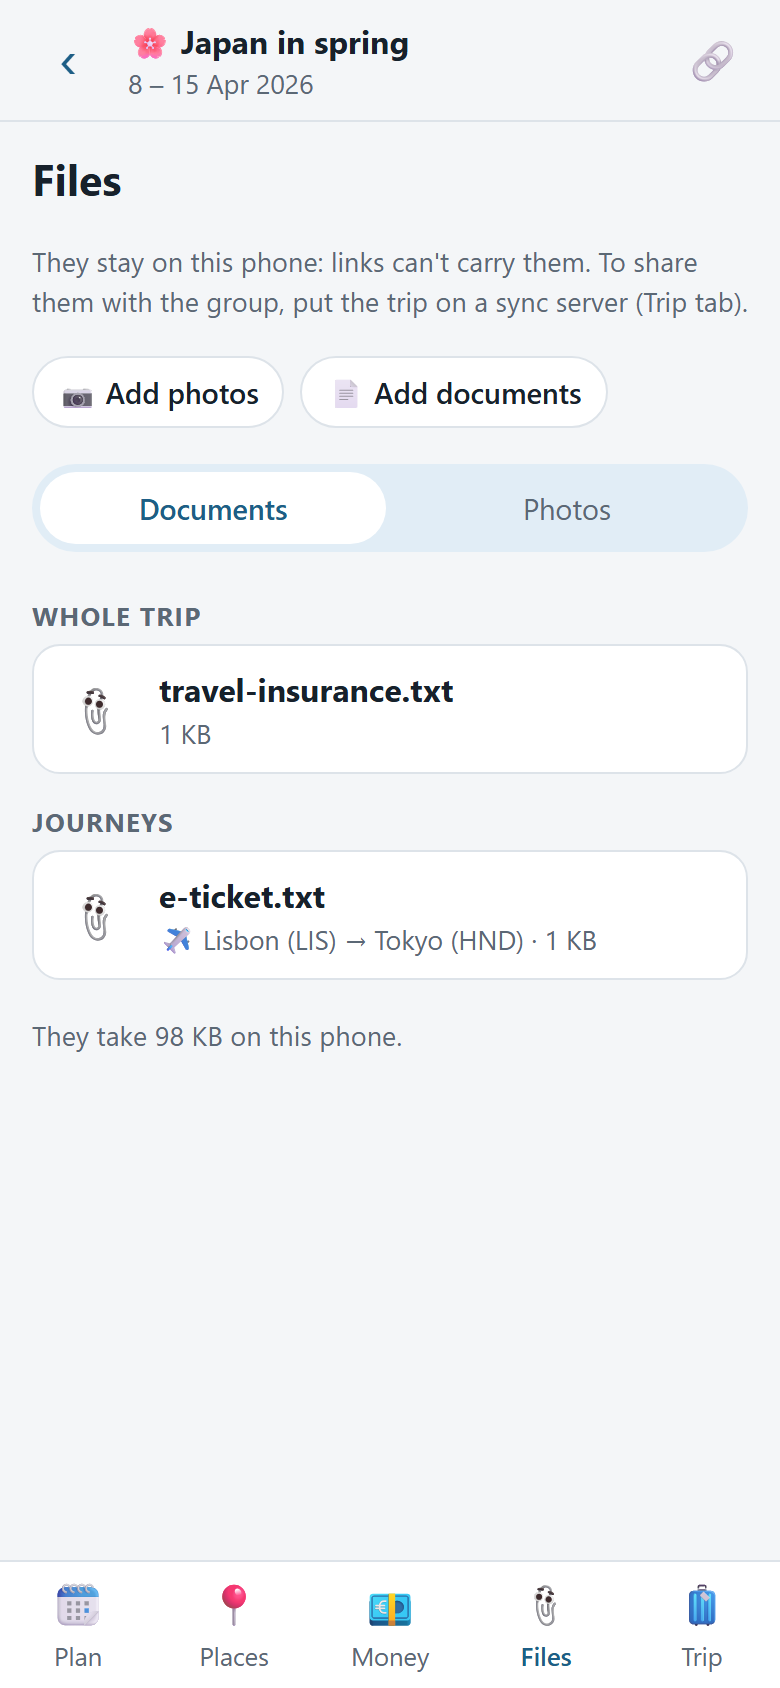
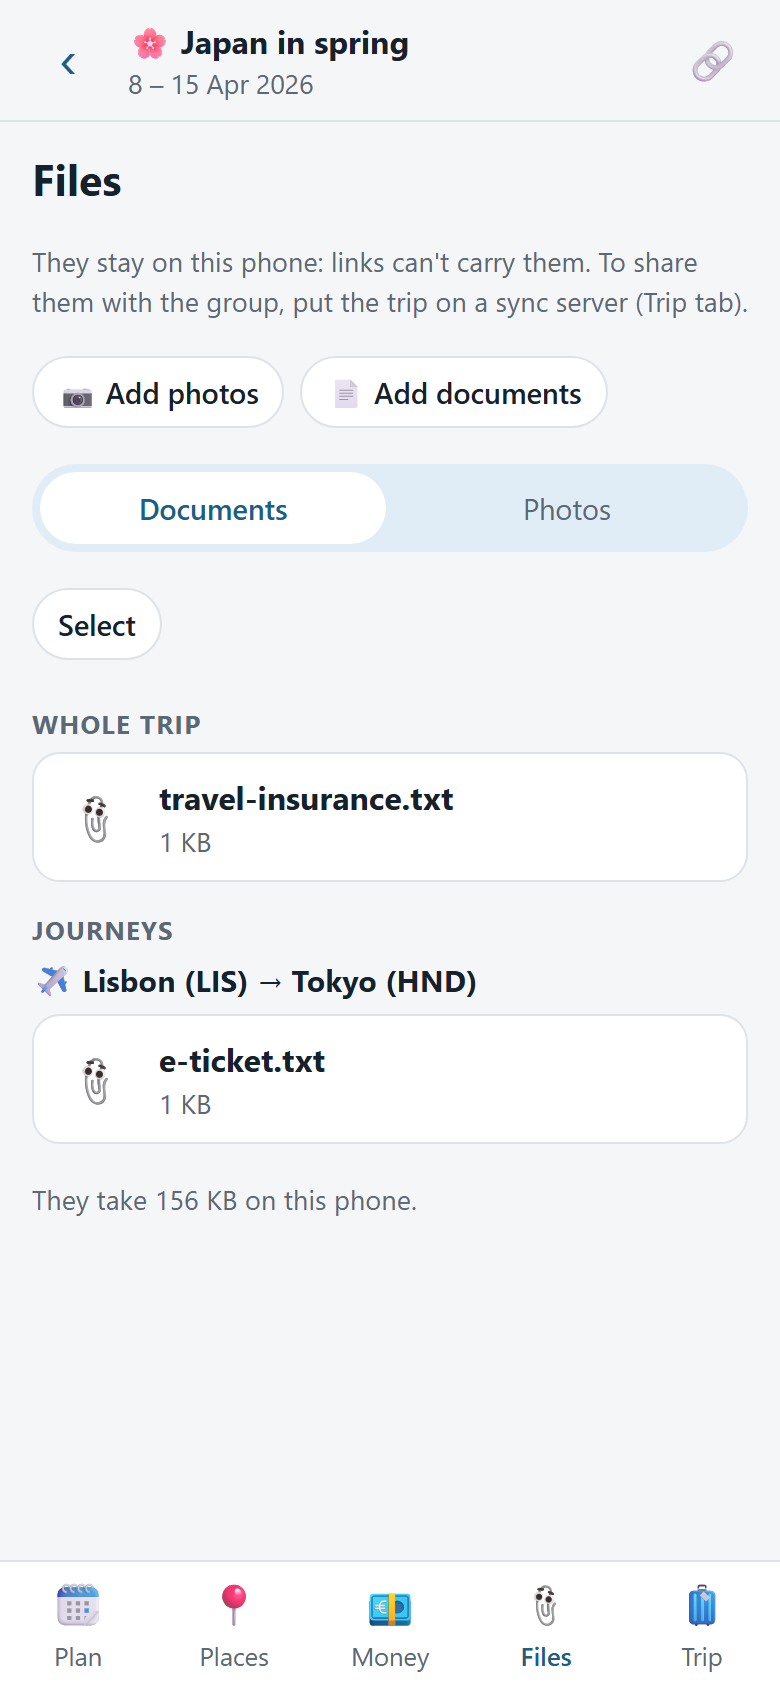
files-by-item: task 5 - Guide and screenshots

diff --git a/scripts/guide/screenshots.ts b/scripts/guide/screenshots.ts
@@ -115,6 +115,17 @@ await page.getByText(/^Added 1 photo/).waitFor()
 await page.locator('label', { hasText: 'Add documents' }).locator('input[type=file]').setInputFiles(eTicket)
 await page.getByRole('button', { name: 'Add', exact: true }).click()
 await page.getByText(/^Added 1 document/).waitFor()
+
+// Photos on two activities: Senso-ji gets two, teamLab one.
+for (const [activity, files] of [
+  [backup.activities[0], [photoFiles[1], photoFiles[2]]],
+  [backup.activities[1], [photoFiles[3]]],
+] as const) {
+  await go(`/trips/${tripId}/activities/${activity.id}`)
+  await page.locator('label', { hasText: 'Add photos' }).locator('input[type=file]').setInputFiles([...files])
+  await page.getByRole('button', { name: 'Add', exact: true }).click()
+  await page.getByText(/^Added \d photos?/).waitFor()
+}
 await go(`/trips/${tripId}/photos`)
 
 // In the app, not a reload: opening the app during a trip goes straight into it.
@@ -148,7 +159,16 @@ await shot('exchanges')
 await go(`/trips/${tripId}/photos`)
 await shot('documents')
 await go(`/trips/${tripId}/photos?view=photos`)
+// Scrolled to the Activities heading, so the item sections show.
+await page
+  .getByRole('heading', { name: 'Activities' })
+  .evaluate((el) => el.scrollIntoView({ block: 'start' }))
 await shot('photos')
+await page.evaluate(() => window.scrollTo(0, 0))
+await page.getByRole('button', { name: 'Select', exact: true }).click()
+await page.locator('button.tile').nth(0).click()
+await page.locator('button.tile').nth(1).click()
+await shot('select')
 await go(`/trips/${tripId}/share`)
 await shot('share')
 await go('/settings')

diff --git a/GUIDE.md b/GUIDE.md
@@ -197,13 +197,17 @@ owed. **+ Payment** records any other payment.
 ### Files tab
 
 The 📎 Files tab has a switch at the top: **Documents** (tickets, bookings, insurance) or **Photos**. Both
-group what's in them by what it belongs to, with the whole trip first, then stays, journeys, activities,
-places and expenses. Documents lists every document in each group. Photos shows the first 3 photos of each
-group; tap **See all** to see all of that group's photos, by day.
+have a heading for what the files belong to, with the whole trip first, then stays, journeys, activities,
+places and expenses. Each item has its own section under its kind. Photos show 3 per section; tap
+**See all** to see all of that item's photos, by day.
+
+To delete several, tap **Select**, tick them and tap **Delete**. **Select all** ticks everything shown.
 
 <img src="docs/guide/documents.png" alt="The Files tab on Documents, with the whole trip's documents above those of a journey" width="300">
 
-<img src="docs/guide/photos.png" alt="The Files tab on Photos, with a row of photos for the whole trip and a See all link, then one photo under Journeys" width="300">
+<img src="docs/guide/photos.png" alt="The Files tab on Photos, under the Activities heading, with a section for each item: the Senso-ji visit with two photos and teamLab with one" width="300">
+
+<img src="docs/guide/select.png" alt="The Files tab in select mode, with two photos ticked and a bar showing 2 selected" width="300">
 
 ## 6. After the trip
 
